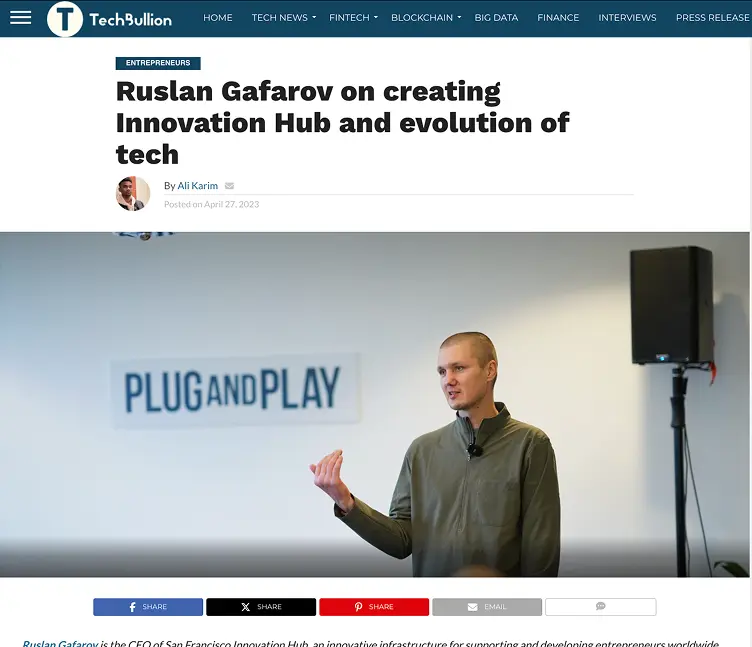
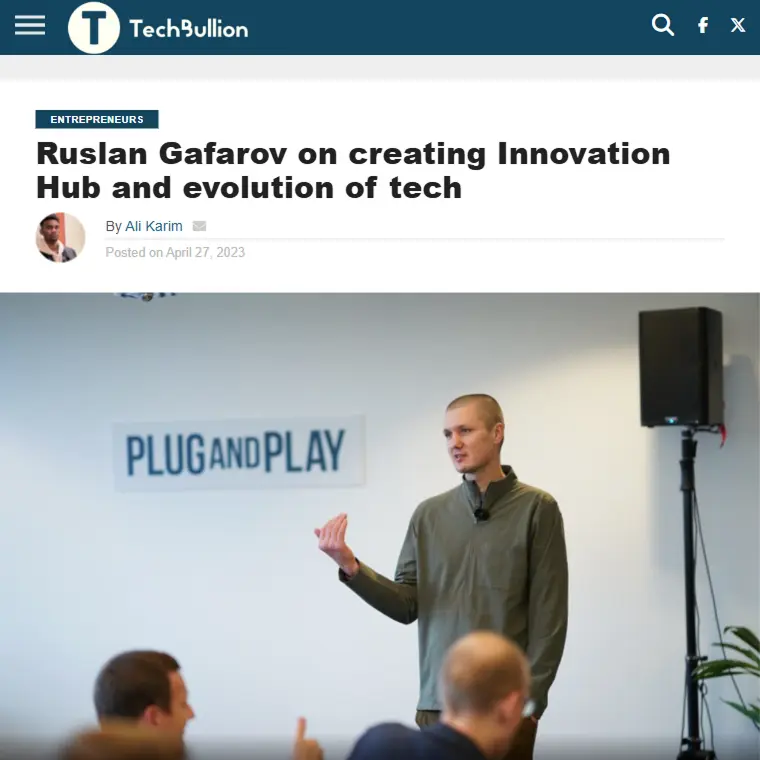
Media IMGs update

diff --git a/index.html b/index.html
@@ -1418,29 +1418,17 @@
 	</div>
 
 	<div class="media_slider">
-		<div class="blaze-slider-controls">
-			<button class="blaze-button blaze-prev" type="button">
-				<svg xmlns="http://www.w3.org/2000/svg" width="11" height="20" fill="none" viewBox="0 0 11 20">
-					<path fill="currentColor" d="M10.707 19.707a1 1 0 0 1-1.414 0l-9-9a1 1 0 0 1 0-1.414l9-9a1 1 0 1 1 1.414 1.414L2.414 10l8.293 8.293a1 1 0 0 1 0 1.414"></path>
-				</svg>
-			</button>
-			<button class="blaze-button blaze-next" type="button">
-				<svg xmlns="http://www.w3.org/2000/svg" width="11" height="20" fill="none" viewBox="0 0 11 20">
-					<path fill="currentColor" d="M.293.293a1 1 0 0 1 1.414 0l9 9a1 1 0 0 1 0 1.414l-9 9a1 1 0 1 1-1.414-1.414L8.586 10 .293 1.707a1 1 0 0 1 0-1.414"></path>
-				</svg>
-			</button>
-		</div>
 		<div id="lenta">
 			<div class="screen">
 				<div class="img-container">
 					<button class="close" type="button" aria-label="Закрыть слайд"></button>
-					<img loading="lazy" decoding="async" width="900" height="647" src="images/sections/section-31/screenshot-forbes.webp" alt="Помогает ли анкетирование повысить эффективность сотрудников" />
+					<img loading="lazy" decoding="async" width="760" height="760" src="images/sections/section-31/screenshot-forbes.webp" alt="Помогает ли анкетирование повысить эффективность сотрудников" />
 				</div>
 			</div>
 			<div class="screen">
 				<div class="img-container">
 					<button class="close" type="button" aria-label="Закрыть слайд"></button>
-					<img loading="lazy" decoding="async" width="490" height="647" src="images/sections/section-31/screenshot-digital-journal.webp" alt="The culture of Silicon Valley | Ruslan Gafarov" />
+					<img loading="lazy" decoding="async" width="659" height="760" src="images/sections/section-31/screenshot-digital-journal.webp" alt="The culture of Silicon Valley | Ruslan Gafarov" />
 				</div>
 			</div>
 			<div class="screen">
@@ -1452,21 +1440,33 @@
 			<div class="screen">
 				<div class="img-container">
 					<button class="close" type="button" aria-label="Закрыть слайд"></button>
-					<img loading="lazy" decoding="async" width="520" height="647" src="images/sections/section-31/screenshot-ny-weekly.webp" alt="Silicon Valley and how to get there | Ruslan Gafarov" />
+					<img loading="lazy" decoding="async" width="892" height="760" src="images/sections/section-31/screenshot-ny-weekly.webp" alt="Silicon Valley and how to get there | Ruslan Gafarov" />
 				</div>
 			</div>
 			<div class="screen">
 				<div class="img-container">
 					<button class="close" type="button" aria-label="Закрыть слайд"></button>
-					<img loading="lazy" decoding="async" width="752" height="647" src="images/sections/section-31/screenshot-tech-bullion.webp" alt="Ruslan Gafarov on creating Innovation Hub and evolution of tech" />
+					<img loading="lazy" decoding="async" width="760" height="760" src="images/sections/section-31/screenshot-tech-bullion.webp" alt="Ruslan Gafarov on creating Innovation Hub and evolution of tech" />
 				</div>
 			</div>
 			<div class="screen">
 				<div class="img-container">
 					<button class="close" type="button" aria-label="Закрыть слайд"></button>
-					<img loading="lazy" decoding="async" width="568" height="647" src="images/sections/section-31/screenshot-theamericanreporter.webp" alt="the best way to upgrade your company in Silicon Valley" />
+					<img loading="lazy" decoding="async" width="760" height="760" src="images/sections/section-31/screenshot-theamericanreporter.webp" alt="the best way to upgrade your company in Silicon Valley" />
 				</div>
 			</div>
+		</div>
+		<div class="blaze-slider-controls">
+			<button class="blaze-button blaze-prev" type="button">
+				<svg xmlns="http://www.w3.org/2000/svg" width="11" height="20" fill="none" viewBox="0 0 11 20">
+					<path fill="currentColor" d="M10.707 19.707a1 1 0 0 1-1.414 0l-9-9a1 1 0 0 1 0-1.414l9-9a1 1 0 1 1 1.414 1.414L2.414 10l8.293 8.293a1 1 0 0 1 0 1.414"></path>
+				</svg>
+			</button>
+			<button class="blaze-button blaze-next" type="button">
+				<svg xmlns="http://www.w3.org/2000/svg" width="11" height="20" fill="none" viewBox="0 0 11 20">
+					<path fill="currentColor" d="M.293.293a1 1 0 0 1 1.414 0l9 9a1 1 0 0 1 0 1.414l-9 9a1 1 0 1 1-1.414-1.414L8.586 10 .293 1.707a1 1 0 0 1 0-1.414"></path>
+				</svg>
+			</button>
 		</div>
 	</div>
 </div>
@@ -1741,6 +1741,7 @@ const DATA_modalText = [
 // Открытие
 	document.querySelectorAll('[fullscreenview]').forEach(element => {element.onclick = function() {
 		let ID = this.getAttribute('fullscreenview');
+		// стандартные модалки
 		if (ID >= 0) {
 			modal_content.innerHTML = DATA_modalText[ID].map((elem, index) => {
 				if (index > 0) return `<p>${elem}</p>`;
@@ -1754,9 +1755,14 @@ const DATA_modalText = [
 			} else if (ID >= 24 && ID <= 33) {
 				modal_Container.classList.add('founders-cirlce');
 			}
+		// Слайдер СМИ (Media)
 		} else {
 			modal_Container.classList.add(this.parentNode.className);
+			document.querySelector('.theamericanreporter + div .blaze-prev').onclick = () => lenta.className = 'tech-bullion';
+			document.querySelector('.tech-bullion + div .blaze-prev').onclick = () => lenta.className = 'ny-weekly';
+			document.querySelector('.tech-bullion + div .blaze-next').onclick = () => lenta.className = 'ny-weekly';
 		}
+
 		document.body.style.cssText = 'overflow:hidden;margin-right:' + (window.innerWidth - document.documentElement.clientWidth) + 'px;';
 		modal_Container.classList.add('opened');
 		modal_content.scrollTop = 0;
@@ -1792,6 +1798,9 @@ const DATA_modalText = [
 	document.querySelectorAll('.media img').forEach(element => {element.onmouseover = function() {
 			lenta.className = this.getAttribute('fullscreenview');
 	}});
+
+// Слайдер СМИ (Media)
+	
 
 // НАВИГАЦИЯ
 	nav_button.onclick = () => main_nav.classList.toggle('opened');

diff --git a/css.css b/css.css
@@ -2768,22 +2768,6 @@ button.button-more:hover,
 	align-items: center;
 	padding: 0 8rem;
 }
-.media_slider .blaze-slider-controls::before,
-.media_slider .blaze-slider-controls::after {
-	content: 'добавить переключение слайдов';
-	position: absolute;
-	top: 6rem;
-	left: 0;
-	right: 0;
-	text-align: center;
-	font-size: 5rem;
-	color: limegreen;
-}
-.media_slider .blaze-slider-controls::after {
-	content: 'картинки обновить на улучшенные';
-	top: auto;
-	bottom: 6rem;
-}
 .media_slider .blaze-slider-controls svg {
 	width: 1.1rem;
 	height: 2rem;
@@ -2796,10 +2780,15 @@ button.button-more:hover,
 	top: 0;
 	left: 0;
 	line-height: 0;
-	transition: transform .5s;
+	transition: transform 1s ease-in-out;
 }
 .media_slider #lenta.forbes {
 	transform: translate3d(0, 0, 0);
+}
+.media_slider #lenta.forbes + .blaze-slider-controls .blaze-prev,
+.media_slider #lenta.theamericanreporter + .blaze-slider-controls .blaze-next {
+	pointer-events: none;
+	opacity: 0.2;
 }
 .media_slider #lenta.digital-journal {
 	transform: translate3d(-100vw, 0, 0);
@@ -2827,6 +2816,8 @@ button.button-more:hover,
 	position: relative;
 }
 .media_slider img {
+	border: 0.1rem solid #444;
+	box-sizing: content-box;
 	box-shadow: 0 .4rem .4rem #00000040;
 }
 
@@ -4836,8 +4827,11 @@ button.button-more:hover,
 		background: url(images/sections/section-22__1/bg.webp) center top 16rem / contain no-repeat;
 	}
 	.autoscrolling-images.networking-activities {
-		height: 32rem;
 		position: relative;
+		height: 32rem;
+		display: flex;
+		overflow: hidden;
+		gap: 8rem;
 	}
 	div.autoscrolling-images.networking-activities img {
 		animation: networking-activities var(--duration) linear infinite;
